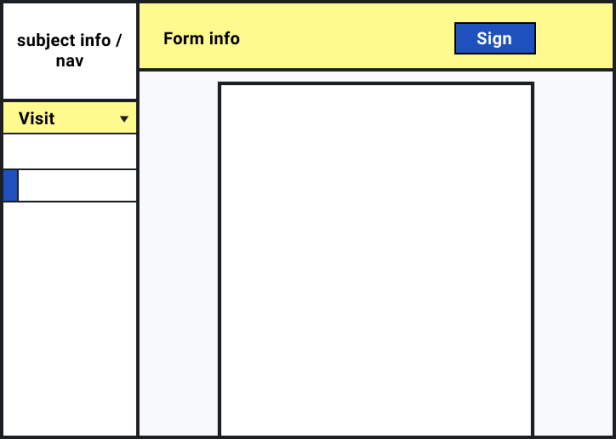
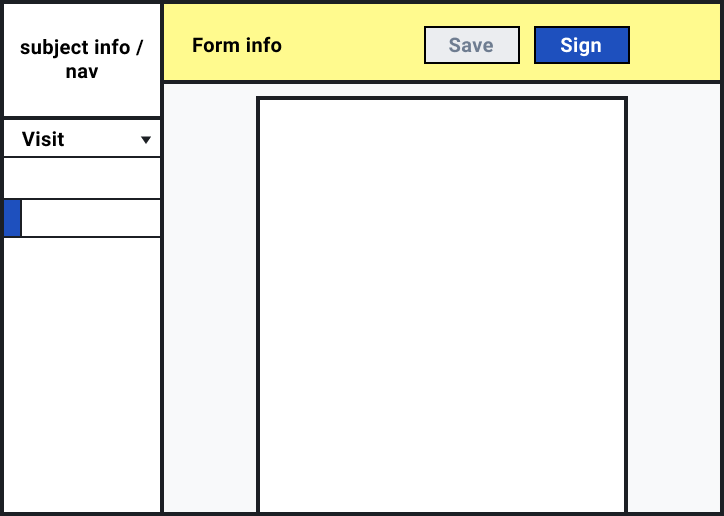
changes to case study

diff --git a/trialspark-2.html b/trialspark-2.html
@@ -130,21 +130,14 @@
       <p><span style="font-weight: bold; color: #6F7D91">Primary Investigator (PI):</span> a physician/MD who supervises the conduct of a study at a given site. PIs are responsible for <span style="font-weight: bold">overseeing patient visits</span>, ensuring the safety and well-being of the study participant. They provide clinical judgment when necessary and sign off on paper and electronic forms where subject data is captured.  </p>
     </div>
     <div>
-
     </div>
 
- <!-- stats -->
-   <!---- <div>
-        <ul>
-          <li>On average, each subject has ~20 visits in a study</li>
-          <li>Each visit has ~10-15 electronic forms that require signatures</li>
-          <li>Each visit has ~5-10 paper forms that require signatures</li>
-        </ul>
-    </div>-->
-<hr>
+
+
 <!--problem framing-->
 <div class="twoCol-center">
   <div>
+    <br>
     <h2>Problem Framing</h2>
     <p>The FDA requires Principal Investigators (PIs) to sign off on forms that capture human data. Yet, TrialSpark PIs aren’t easily able to navigate to forms that require signoff without the help of coordinators. This is problematic for two reasons:</p>
     <p>1. CRCs are blocked without these signatures, causing them to wait unnecessarily long hours after a patient visit to physically meet with PIs.</p>
@@ -155,39 +148,62 @@
  </div>
 </div>
 
-<!-- ADD VISUAL TO EXPLAIN RELATIPONSHIP BETWEEN PI, CRC, SITE ETC-->
-<!--<div class="break-stat">
-          <h1><span style="color:#4252D8">~500</span></h1>
-          <p><span style="font-weight: bold; color: #6F7D91">clinical forms require PI signatures over the course of a study (per subject).</span> On average, 5-10 subjects are enrolled in a study at a given site.</p>
-  </div>-
-  <div class="break-stat">
-      <h1><span style="color:#4252D8">~2-3 hrs</span></h1>
-      <p><span style="font-weight: bold; color: #6F7D91">Average amount of time CRCs wait to collect signatures after a visit per subject.</span></p>
+<br>
+<div class="twoCol-left">
+<div>
+  <img src="images/trialspark/perspective.png">
 </div>
--<div class="break-stat">
-  <h1><span style="color:#4252D8">~20 visits</span></h1>
-  <p><span style="font-weight: bold; color: #6F7D91">Average amount of visits in a given study, per subject per site.</span></p>
-</div>-->
-<!--<div class="break-stat">
-<div class="break-stat">
-  <h1><span style="color:#4252D8">~15-30 subjects</span></h1>
-  <p><span style="font-weight: bold; color: #6F7D91">Average amount of subjects each CRC is responsible for in a given study.</span></p>
-</div>
+ <div>
+<span style="font-weight: bold; color: #6F7D91">For a given study...</span></p>
+        <ul class="perspective">  
+          <li>TrialSpark runs ~10-15 sites.</li>
+          <li><span style="font-weight: bold">1 CRC </span> manages data for <span style="font-weight: bold">2-3 sites</span>.</li>
+          <li><span style="font-weight: bold">1 PI </span>oversees a site.</li>
+          <li><span style="font-weight: bold">~3-5 subjects</span> per site.</li>
+          <li><span style="font-weight: bold">~20 visits</span> per subject.</li>
+          <!--<li><span style="font-weight: bold">~15 forms need PI signoff</span> per visit.</li>-->
+          <li><span style="font-weight: bold">~60-100 visits</span> need PI signoff.</li>
+          <li><span style="font-weight: bold">CRCs wait ~2-3hrs after each visit</span> to collect in-person signatures.</li>
+          <li><span style="font-weight: bold">120-180 hours wasted.</span></li>
+        </ul>
+    </div>
+  </div>
 
-    <div class="twoCol-left">
-      <div>
-        <h1><span style="color:#4252D8">~500</span></h1>
-        <p><span style="font-style: italic; color: #6F7D91">clinical forms require PI signatures in a given study</span></p>
-    </div>-->
+  <!--   <ul class="perspective">  
+          <li>TrialSpark runs ~10-15 sites.</li>
+          <li>1 CRC manages 2-3 sites.</li>
+          <li><span style="font-weight: bold">1 PI </span>oversees each site.</li>
+          <li><span style="font-weight: bold">~3-5 subjects</span> per site.</li>
+          <li>~20 visits per subject.</li>
+          <li>~15 forms require signatures per visit.</li>
+          <li>CRCs <span style="font-weight: bold">wait ~2-3hrs after visit</span> to collect in-person signatures.</li>
+        </ul>-->
 
- <!-- context -->
+
  <br>
  <h4 class="caption">Context</h3>
    <div class="definition">
           <p>When I started at TrialSpark, physicians were not accustomed to using Pilot software independently. Instead, they relied on research coordinators to help them sign in and navigate to the appropriate forms that required action. Pilot, at the time, was simply <span style="font-weight: bold">not built to support physicians’ workflows</span>. For example, there were no visual indicators from the homepage directing physicians to the specific forms that required their review. Moreover, the system lacked simple microinteractions, like tooltips and progress indicators, to make it easier for users to understand where to go and anticipate what will happen next.</p>
     </div>
    <!-- context -->
+      <div class="definition">
+          <p><span style="font-weight: bold">Obviously this was inefficient.</span> Coordinators had to repeatedly wait long hours (5+) after a patient visit to meet with physicians to get signatures. This was especially inconvenient because TrialSpark coordinators were not permanently stationed at these sites, often having to travel to multiple sites in a day. Though securing signatures at the end of a patient visit was the ideal scenario, this was rarely feasible.</p> 
+       </div>
+                <h4>Then COVID-19 happened,</h4>
+                <p>which sparked a team-wide initiative to support and streamline remote signoff.</p>
+      </section>
+
+
+<!--divider message-->
+<div class="fullbleed-bg-blue">
+  <section class="main-container">
+    <br>
+        <div>
+          <h3><span style="font-weight: 400; color: #EBEFF9; font-style: italic;">How might we support and streamline remote signoff without compromising patient safety and data integrity?
+          </span></h3>
+      <br>
     </section>
+</div>
 
     <div class="fullbleed-bg">
       <section class="main-container">
@@ -200,30 +216,10 @@
   </section>
 </div>
 
-  <section class="main-container">
-      <div class="definition">
-          <p><span style="font-weight: bold">Obviously this was inefficient.</span> Coordinators had to repeatedly wait long hours (5+) after a patient visit to meet with physicians to get signatures. This was especially inconvenient because TrialSpark coordinators were not permanently stationed at these sites, often having to travel to multiple sites in a day. Though securing signatures at the end of a patient visit was the ideal scenario, this was rarely feasible.</p> 
-       </div>
-       <!---
-       <div class="break-stat">
-        <h1><span style="color:#4252D8">~2-3 hrs</span></h1>
-        <p><span style="font-weight: bold; color: #6F7D91">Average amount of time CRCs wait to collect signatures after a visit per subject.</span></p>
-  </div> -->
-                <h4>Then COVID-19 happened,</h4>
-                <p>which sparked a team-wide initiative to support and streamline remote signoff.</p>
-      </section>
   
-      <!--divider message-->
-  <div class="fullbleed-bg-blue">
-    <section class="main-container">
-      <br>
-          <div>
-            <h3><span style="color: white">How might we support and streamline remote signoff without compromising patient safety and data integrity?
-            </span></h3>
-        <br>
-      </section>
-</div>
-</div>
+  
+
+
 <br>
 
    <section class= "main-container">
@@ -300,7 +296,7 @@
       <div class="quote1"><p>One time I waited like 5 hours just to get one last signature. It was really frustrating. - CRC</p> 
           </div>
       <div class="quote2">
-          <p>I literally have to quadruple check [Pilot] to ensure that all forms have been signed off. This can mean clicking into 20 forms sometimes... There’s no way around it. - CRC</p>
+          <p>I literally have to quadruple check [Pilot] to ensure all forms have been signed off. This can mean clicking into 20 forms sometimes... There’s no way around it. - CRC</p>
       </div>
       <div class="quote3">
           <p>I don’t trust that my PI can navigate through Source without accidentally modifying data. I feel better helping him in-person so that I can answer any questions. My PI is smart, obviously, but not the most tech-savvy. - CRC</p>
@@ -322,7 +318,7 @@
   <section class="main-container">
     <br>
         <div>
-          <h3><span style="color: white">Solving their frustrations became my underlying motivation.
+          <h3><span style="font-weight: 400; color: #EBEFF9; font-style: italic;">Solving their frustrations became my underlying motivation.
           </span></h3>
       <br>
     </section>
@@ -335,31 +331,86 @@
         <div>
           <h2 id="ideate">Ideate & Review</h2>
           <p>Next, I began sketching and wireframing, looping in my PM and engineers early on and continuously throughout the process.</p>
-          <p><span style="font-weight: bold">Product Roadmap.</span> How much of the feature work will incorporate the new UI system?<p></p>
-            <p><span style="font-weight: bold">Product Strategy.</span> How would the PI’s experience change depending on the types of studies we take on?</p>
+          <p>Some ideas that we pursued early on were around consolidating signoff. For example, having one signature apply to all forms for a visit rather than require PIs to sign off on multiple forms. We then discussed conditional signatures, such that a PI would only have to sign a form if it included “high-risk” data. We had several meetings with key stakeholders discussing the appropriate level of physician oversight.
+          </p>
+        </div>
       </div>
+      <div>
+        <img src="images/trialspark/sketch.png">
+      </div>
+  
+  <div class="twoCol-left">
+    <div>
+    <p>While it would be ideal to create a visit-level/ ‘sign all’ capability to expedite signoff, we weren’t able to get buy-in from clinical team members who felt strongly that PIs need to review each form individually. Here, the ongoing battle between efficiency and thoroughness swayed towards thoroughness. 
+    </p>
+    <p>Though we weren’t aligned (just yet) on a ‘sign all’ feature, I set out to solve the known pain points with the existing flow:
+    </p>
   </div>
-  <div>
-    <img src="images/trialspark/sketch.png">
+</div>
+
+<!--call-to-action
+   –––––––––––––––––––––––––––––––––––––––––––––––––– -->
+   <div class="twoCol-left">
+        <div class="test-stats">
+            <h4>#1 Call-to-action</h4>
+            <p>Signature button is not readily accessible (user has to scroll to the bottom of the form to sign), and the relationship between ‘save and continue’ and ‘sign’ is confusing (unclear which to select first).
+            </p>
+            <p><span style="font-weight: bold; color: #2AC099;">Solution:</span></p>
+            <ul>
+              <li>Primary actions at top right of page </li>
+              <li>Clearly distinguish save vs sign (only enable one at a time) so there’s no confusion around which action is needed when.</li>
+            </ul>
+      </div>
+       <div class="assets-container">
+            <div class="control-asset">
+                <h4 class="caption2">before</h4>
+                <img src="images/trialspark/source-block-before.png">
+            </div>
+            <div class="test-asset">
+                <h4 class="caption2">after</h4>
+                <img src="images/trialspark/source-block-after.png">
+            </div>
+      </div>
   </div>
 
- <!--UI-->
- <div class="twoCol-left">
-  <div class="test-stats">
-        <h4>#1 New UI System</h4>
-        <p>Our focus on refining PI Oversight coincided with the rollout of our new UI system. This meant that any new feature would need to fit into both the current and redesigned experience. I worked closely with the lead designer for the new UI system to help shape component decisions (e.g. new navigation, status labels, popovers, copy, primary and secondary button interactions, form construction etc).</p>
-  </div>
-  <div class="asset-container">
-      <div class="control-asset">
-          <h4 class="caption">before</h4>
-          <img src="images/trialspark/source-block-before.png">
+
+  <!--Feedback
+   –––––––––––––––––––––––––––––––––––––––––––––––––– -->
+   <div class="twoCol-left">
+        <div class="test-stats">
+            <h4>#2 Feedback</h4>
+            <p>fter signing a form, the PI does not receive any visual indicators that the signature was successfully executed and is automatically brought to the next form on the list (which doesn’t necessarily require a signature). PI then has to navigate to the side panel to find the next form that requires action. 
+            </p>
+            <p><span style="font-weight: bold; color: #2AC099;">Solution:</span></p>
+            <ul>
+              <li>Provide feedback to the user when a form is signed </li>
+              <li>Aggregate forms that require signature to the top of the side panel, defaulting to the next form that requires action once the previous form has been signed.</li>
+            </ul>
       </div>
-      <div class="test-asset">
-          <h4 class="caption">after</h4>
-          <img src="images/trialspark/source-block-after.png">
+       <div class="assets-container">
+            <div class="control-asset">
+                <h4 class="caption2">before</h4>
+                <img src="">
+            </div>
+            <div class="test-asset">
+                <h4 class="caption2">after</h4>
+                <img src="">
+            </div>
+      </div>
   </div>
-</div>
-</div>
+
+
+  
+  <!----
+   <div class="twoCol-left">
+        <div>
+          <p><span style="font-weight: bold">Product Roadmap.</span> How much of the feature work will incorporate the new UI system?<p></p>
+          <p><span style="font-weight: bold">Product Strategy.</span> How would the PI’s experience change depending on the types of studies we take on?</p>
+       </div>
+  </div>--> 
+  
+
+ <!--UI-->
 
  <!--User types-->
  <div class="twoCol-left">

diff --git a/css/systems.css b/css/systems.css
@@ -307,6 +307,13 @@ case-study-btn a, case-study-btn.two a, case-study-btn.three a {
     font-weight: 400;
     font-size: 18px;
 }
+
+.perpective li {
+    margin-top: 32px;
+    font-size: 10px;
+}
+
+
  a {
     font-family: 'Work Sans', sans-serif;
     color: #272727;
@@ -753,6 +760,20 @@ hr {
     margin-top: 0px;
     margin-bottom: 0px;
     padding-bottom: 0px;
+}
+
+.caption2 {
+    font-family: 'Work Sans', sans-serif;
+    font-style: normal;
+    font-weight: 600;
+    font-size: 14px;
+    line-height: 20px;
+    letter-spacing: 0.06em;
+    text-transform: uppercase;
+    color: #6F7D91;
+    margin-top: 0px;
+    margin-bottom: 0px;
+    padding-bottom: 12px;
 }
 
  .data-btn {
